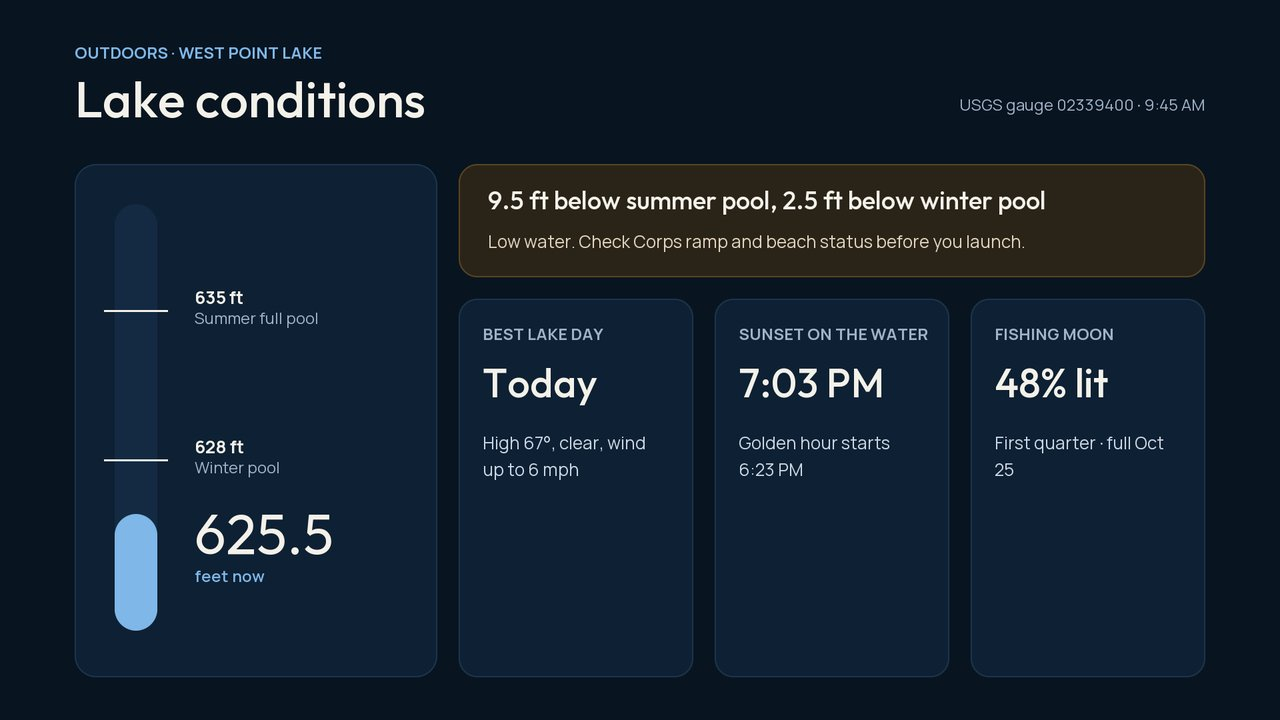
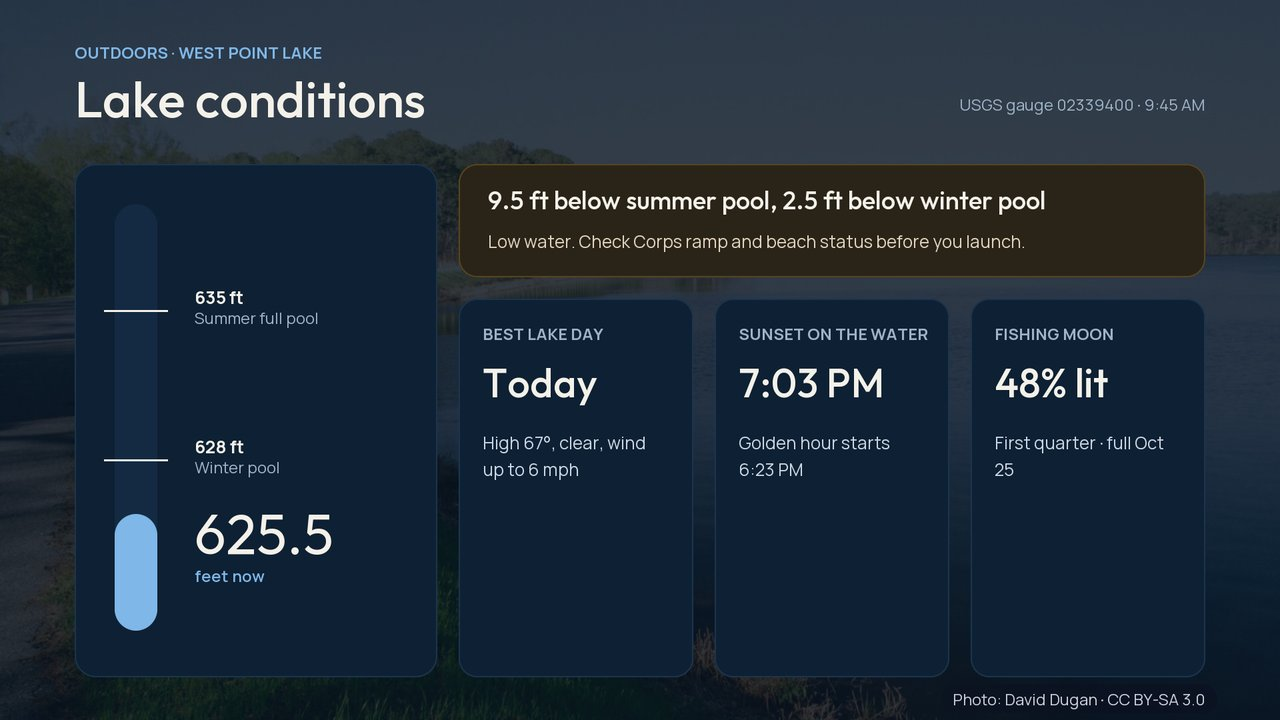
Daybreak 1.8.0: wallpaper status in diagnostics, moon wording, docs
- Diagnostics' Wallpapers row shows downloads ("17 of 17 photos") and the
  last download error; failed downloads are logged on the dev console.
- Credits keep the license readable: the "Photo:" label drops first, then
  the place; Ambient names the photo's place in its caption.
- Sky: "The moon is full" (not "The moon is full moon"), with a tip per phase.
- Docs: configuration, architecture, development (adding photos, re-audit),
  security, README; CI lints daybreak/wallpapers. Screenshots refreshed.

Tested on the TV: the catalog fetched in 564 ms, 17 photos downloaded in
about 3 minutes, and the Lake screen showed its photo with the credit.

diff --git a/docs/ARCHITECTURE.md b/docs/ARCHITECTURE.md
@@ -60,6 +60,16 @@ During a game (an event `in` progress, or one that should have started in the la
 - **Settings** live in the `daybreak` registry section as JSON. The data task gets them through its `settings` field. Gentle news is applied in `derive()`, so a change takes effect within a minute, without refetching.
 - **Speed test:** `SpeedTask` runs only on request: three empty requests for latency, then a 25 MB download to `tmp:`, deleted afterwards.
 
+## Wallpapers
+- **Catalog:** `daybreak/wallpapers/catalog.json`, served from this repo (`place.wallpapers`). Each photo has an id, a file, a place, a credit, tags and `screens`: the screens where every label passed the contrast audit, recorded by `build.py --audit`.
+- **Fetching:** DataTask fetches the catalog daily (`normWallpapers` keeps only safe ids and `img/<id>.jpg` paths, at most 100 entries).
+- **Picks:** `wallpaperPicks(photos, day)` chooses a photo for each of the nine photo screens: different photos on different screens, changing daily, only on audited screens, and lake photos on the Lake screen.
+- **Downloads:** `syncWallpapers()` downloads today's and tomorrow's picks into `cachefs:/wp-<id>.jpg`, three per refresh. A download goes to a `.part` file and is kept only if it arrived whole (HTTP 200, over 20 KB; stalled transfers are dropped). Every other `wp-*` file is deleted, so the TV holds at most about 18 photos (about 7 MB).
+- **Screens:** `derive` puts only downloaded picks in `d.wallpapers`. `uiWallpaper` draws the photo under the screen's own fill color at `wallpaperDim()`: 0.55 on Ambient, 0.70 on Season, 0.78 on Briefing, 0.82 on card screens.
+- **Credit:** `buildScreen` adds the credit at bottom right, on a translucent pill so it reads on any photo. The scene hides it while its status line uses the corner.
+- **Fallbacks:** with no download yet, screens use the packaged pre-dimmed photos or plain fills. Low-memory mode uses plain fills.
+- **Memory:** a wallpaper decodes to 8.3 MB, the same as the packaged photos, and at most two are decoded during a crossfade.
+
 ## Radar geometry
 - **The window:** `radarView(lat, lon)` (`rules.brs`) computes the Web Mercator window around home, 300 km across on the ground and 1920×1080. It's the same window `scripts/radar_map.py` uses for the base map, so the radar frames, the base map and the labels line up. `radarPx()` places labels.
 - **Precision:** the math is single precision, as BrightScript floats are. Tests check it against the Python projection: the bounding box agrees to within 10 m (under 0.1 px), and the label pixels match exactly.

diff --git a/CHANGELOG.md b/CHANGELOG.md
@@ -4,6 +4,20 @@ All notable changes to Daybreak. The format follows [Keep a Changelog](https://k
 
 ## [Unreleased]
 
+## [1.8.0] - 2026-10-25
+
+### Added
+- **Local wallpapers, loaded live** (#64): 36 free-licensed Wikimedia Commons photos from around LaGrange, Troup County, West Point Lake, Newnan, Columbus, Pine Mountain and Callaway Gardens, Peachtree City and Atlanta.
+  - **On screen:** nine screens use them (Ambient, Briefing, Season, Tonight, Week, Recap, Lake, School and Board), a different photo on each, changing daily. Each photo is dimmed in the screen's own color and credited bottom right.
+  - **Delivery:** the TV reads a catalog from this repo and downloads photos into its cache in the background. New photos need no reinstall, and the packaged photos remain the fallback.
+  - **Readability:** `daybreak/wallpapers/build.py --audit` renders every photo behind every screen with the TV's own code and allows a photo only where every label passes the contrast audit.
+- **Diagnostics:** a Wallpapers row.
+
+### Fixed
+- **Sky screen** said "The moon is full moon". It now says "The moon is full" (or "It's a new moon", "…a waxing crescent"), with a viewing tip.
+- **Diagnostics** shows wallpaper downloads ("17 of 17 photos") and the last download error.
+- **`place.radar`** in `family.json` was documented but rejected by the build.
+
 ## [1.7.2] - 2026-10-25
 
 Daybreak's first install since 1.0 (#44), with fixes found on the TV. Start-up and memory were measured on the TV for the first time (see `docs/ARCHITECTURE.md`).
@@ -177,7 +191,8 @@ Foundations: CI, deterministic tests, quick fixes and a safe deploy script.
 
 The first standalone release: 12 native screens, every feed fetched on the TV, rule-based heads-up insights, the family board through calendar events, and app and screensaver modes.
 
-[Unreleased]: https://github.com/roberjo/tv-check/compare/v1.7.2...HEAD
+[Unreleased]: https://github.com/roberjo/tv-check/compare/v1.8.0...HEAD
+[1.8.0]: https://github.com/roberjo/tv-check/compare/v1.7.2...v1.8.0
 [1.7.2]: https://github.com/roberjo/tv-check/compare/v1.7.1...v1.7.2
 [1.7.1]: https://github.com/roberjo/tv-check/compare/v1.7.0...v1.7.1
 [1.7.0]: https://github.com/roberjo/tv-check/compare/v1.6.0...v1.7.0

diff --git a/README.md b/README.md
@@ -49,7 +49,8 @@ Built in one evening, pair-programming with [Claude Code](https://claude.com/cla
 - **Family board through the calendar:** an event called `TV: Dinner at 6:30` shows as a note, `Buy: milk, eggs` adds to a grocery list, and `Countdown: Beach trip` counts down the days.
 - **On the remote:** OK opens a menu (settings, go to a screen, diagnostics), and * shows diagnostics: feed health, memory, network and a speed test.
 - **Privacy defaults:** health appointments show as "Appointment", and violent-crime headlines are filtered out.
-- **Design:** tested for readability, with contrast measured against the photo behind every line of text.
+- **Local wallpapers:** 36 free-licensed photos from around LaGrange, West Point Lake, Pine Mountain, Columbus, Newnan, Peachtree City and Atlanta, a different one behind each screen every day. The TV downloads them from this repo, each with an on-screen credit.
+- **Design:** tested for readability, with contrast measured against the photo behind every line of text, for every wallpaper on every screen it can appear on.
 
 ## Run it yourself
 You need a Roku TV with **developer mode** on (Home ×3, Up ×2, Right, Left, Right, Left, Right) and "Control by mobile apps" set to **Enabled**. Both open interfaces to anyone on your LAN, so only do this on a network you trust.
@@ -79,7 +80,7 @@ Daybreak defaults to LaGrange, Georgia. Your town, teams, rivalry, lake, college
 ## Licensing
 - **Code:** MIT (see `LICENSE`).
 - **Fonts:** Outfit and Manrope, SIL Open Font License 1.1 (`daybreak/art/fonts/OFL-*.txt`).
-- **Photos:** Callaway Gardens, CC0 (Wikimedia Commons).
+- **Photos:** Wikimedia Commons, under each photo's own license: CC0, public domain, CC BY or CC BY-SA. The list is in [`daybreak/wallpapers/CREDITS.md`](daybreak/wallpapers/CREDITS.md). The cropped copies keep their licenses, so the BY-SA ones stay BY-SA.
 - **Map and radar data:** USGS and NOAA, public domain.
 
 Not affiliated with Roku, TCL or any of the data providers.

diff --git a/docs/CONFIGURATION.md b/docs/CONFIGURATION.md
@@ -68,6 +68,7 @@ Without a `place` block, Daybreak uses its LaGrange, Georgia defaults (`placeDef
 | `news` | Google News queries (plain text, which the build URL-encodes), a regex that a headline or source must match to count as local, and the town paper's name (very short headlines from it are section labels) |
 | `curbside` | `"lagrange"` (the built-in rules) or `null` |
 | `radar` | `{places: [{name, lat, lon}], water: [{name, lat, lon}]}`: town labels and water labels on the radar map. The TV projects them, and skips any that would sit under a card |
+| `wallpapers` | The base URL of a wallpaper catalog (`catalog.json` plus `img/`). The default is this repo's `daybreak/wallpapers/`, which is West Georgia photos; `null` uses only the packaged photos. `DAYBREAK_WALLPAPERS=<url>` at build time overrides it, e.g. to test a branch |
 
 The build rejects unknown keys, so a typo fails loudly instead of being ignored.
 
@@ -75,7 +76,7 @@ The build rejects unknown keys, so a typo fails loudly instead of being ignored.
 These are content rather than settings, and need code or art changes for another town:
 - **Radar map:** nothing; it follows `home` in `family.json`. The build makes a base map for a 300 km window centered there (cached per location in `daybreak/cache/radar/`), the TV requests radar for the same window, and labels come from `place.radar`.
 - **Season notes:** the monthly nature and garden notes in `seasonItems()`.
-- **Photos:** the Callaway Gardens backgrounds in `daybreak/art/assets/`.
+- **Photos:** the wallpapers in `daybreak/wallpapers/` (pick your own in `sources.json`, then run `build.py --audit`), and the packaged Callaway Gardens fallbacks in `daybreak/art/assets/`.
 
 ## Settings on the TV
 Gentle news, rotation speed and which screens to show can be changed on the TV (OK → Settings) and are saved there. `GENTLE_NEWS=0` in `.env` changes the default.

diff --git a/docs/DEVELOPMENT.md b/docs/DEVELOPMENT.md
@@ -32,6 +32,16 @@ Each runner exits non-zero on a failed check, a BrightScript runtime error, or a
 1. Change the builders in `channel/components/screens.brs`, using the grid (`gx`, `gw`) and the type scale in `ui.brs`.
 2. Run `daybreak/preview/preview.sh daybreak/out/preview --audit` and look at the PNGs. The audit must report 0 issues.
 3. If a screen in the README changed, refresh the screenshots with `--docs docs/images`.
+4. If the change touches a photo screen (Ambient, Briefing, Season, Tonight, Week, Recap, Lake, School, Board), re-audit the wallpapers: `.venv/bin/python daybreak/wallpapers/build.py --audit-only`. It rebuilds each screen behind each photo (about a minute) and rewrites which screens each photo may appear on in `catalog.json`; commit the result.
+
+## Wallpapers
+- **Add a photo:** add it to `daybreak/wallpapers/sources.json` (the Commons file name, the place, tags, and a crop `focus` from 0 at the top to 1 at the bottom), then run `.venv/bin/python daybreak/wallpapers/build.py --audit`. The script:
+  - accepts only CC0, public domain, CC BY and CC BY-SA
+  - fetches the author and license from Commons
+  - crops to 1920×1080 and writes `img/`, `catalog.json` and `CREDITS.md`
+  - records the screens where every label passes the contrast audit
+- **Tags:** `lake` photos can go on the Lake screen.
+- **On the TV:** the TV reads the catalog from `main`, so a merged photo reaches every TV within a day, with no reinstall. To try a branch first, build with `DAYBREAK_WALLPAPERS=https://raw.githubusercontent.com/roberjo/tv-check/<branch>/daybreak/wallpapers/`.
 
 ## Build
 ```sh

diff --git a/SECURITY.md b/SECURITY.md
@@ -30,4 +30,7 @@ Out of scope:
   - `npm audit` and `pip-audit` on the locked dev tools
   - Dependabot alerts, security updates and weekly version updates (Actions, npm, pip)
 - **Supply chain:** workflows pin every action to a commit SHA, run with read-only permissions by default, and release builds carry a build-provenance attestation and SHA-256 checksums.
+- **Wallpapers:** the TV downloads photos from this repo's protected `main` branch, from `place.wallpapers`.
+  - **Validation:** catalog ids and paths are checked (`[a-z0-9-]` ids, `img/<id>.jpg` files, at most 100), so a bad catalog can't name files outside `cachefs:/wp-*`.
+  - **Downloads:** a download is kept only if it arrives whole. The photos are plain JPEGs, decoded by Roku OS.
 - **Developer mode** and "Control by mobile apps" open the TV to the local network. Only use them on a network you trust (see the README).

diff --git a/DAYBREAK.md b/DAYBREAK.md
@@ -58,7 +58,8 @@ Also at priority 5, air quality reaching "unhealthy for sensitive groups" (US AQ
 - **Accents:** a thin amber rule marks Heads up. Member colors mark notes and students. An amber "as of" note marks data that's getting old.
 
 ## Imagery and licensing
-- Callaway Gardens photos: CC0 (Wikimedia Commons, D. Dugan).
+- **Wallpapers:** 36 photos from Wikimedia Commons (CC0, public domain, CC BY, CC BY-SA), credited on screen and in `daybreak/wallpapers/CREDITS.md`. The packaged Callaway Gardens fallbacks are CC0 (D. Dugan).
+- **Not covered yet:** Commons has no usable free photos of Fayetteville; add one to `sources.json` when there is.
 - Map layers: USGS National Map (public domain). Radar: NOAA/NCEP MRMS (public domain).
 - Callaway Gardens' and tourism boards' own marketing media isn't used; it's copyrighted.
 

diff --git a/CONTRIBUTING.md b/CONTRIBUTING.md
@@ -15,7 +15,7 @@ cp config/family.example.json config/family.json
 daybreak/tests/run.sh && daybreak/tests/run_data.sh        # off-device tests (no network)
 .venv/bin/python daybreak/build_channel.py --check          # BrighterScript
 .venv/bin/python daybreak/build_channel.py --assets && daybreak/preview/preview.sh daybreak/out/preview --audit
-.venv/bin/pyflakes scripts daybreak/build_channel.py daybreak/tests daybreak/art daybreak/preview
+.venv/bin/pyflakes scripts daybreak/build_channel.py daybreak/tests daybreak/art daybreak/preview daybreak/wallpapers
 ```
 CI runs all of these, plus the dependency audit, the secret scan and CodeQL. `main` is protected, so changes land through PRs with green checks.
 

diff --git a/daybreak/README.md b/daybreak/README.md
@@ -27,6 +27,7 @@ daybreak/channel/
 | NOAA MRMS WMS | Radar: 8 frames over about 2 hours, at 960×540 | 10 min | 30 min |
 | Open-Meteo air quality | US AQI now and for the next day | 30 min | 6 h |
 | National Hurricane Center | Active Atlantic storms (June to November only) | 30 min | 6 h |
+| This repo (`daybreak/wallpapers/catalog.json`) | Wallpaper catalog; the photos themselves download in the background, a few per refresh | 1 day | 30 days |
 
 Team schedules refresh every 2 minutes while a tracked game is in progress, for live scores. Open-Meteo's pollen data only covers Europe, so Daybreak shows air quality but not pollen.
 
